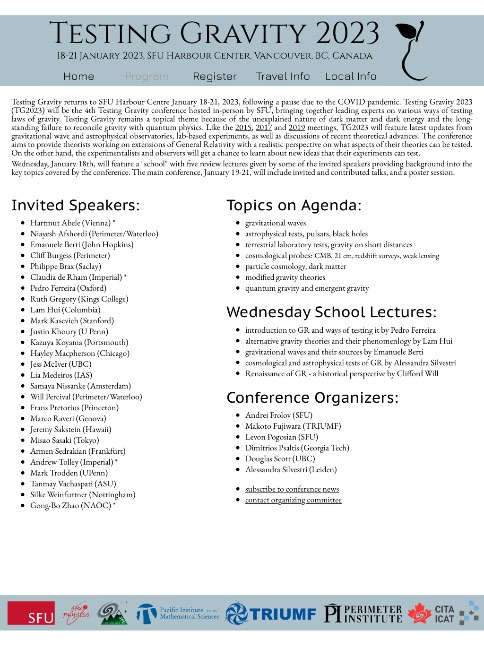
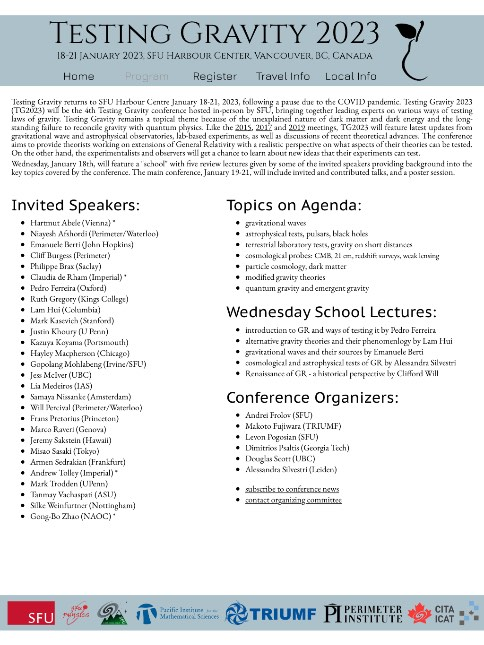
Another invited speaker updated (added Gopi)

Changed region(s): [[0.062, 0.5581, 0.3099, 0.8062]]

diff --git a/content/speakers.html b/content/speakers.html
@@ -24,6 +24,7 @@ ul { margin-top: 0.3em !important; }
 <li>Hayley Macpherson (Chicago)
 <li>Jess McIver (UBC)
 <li>Lia Medeiros (IAS) 
+<li>Gopolang Mohlabeng (Irvine/SFU)
 <li>Samaya Nissanke (Amsterdam) 
 <li>Will Percival (Perimeter/Waterloo) 
 <li>Frans Pretorius (Princeton) 
